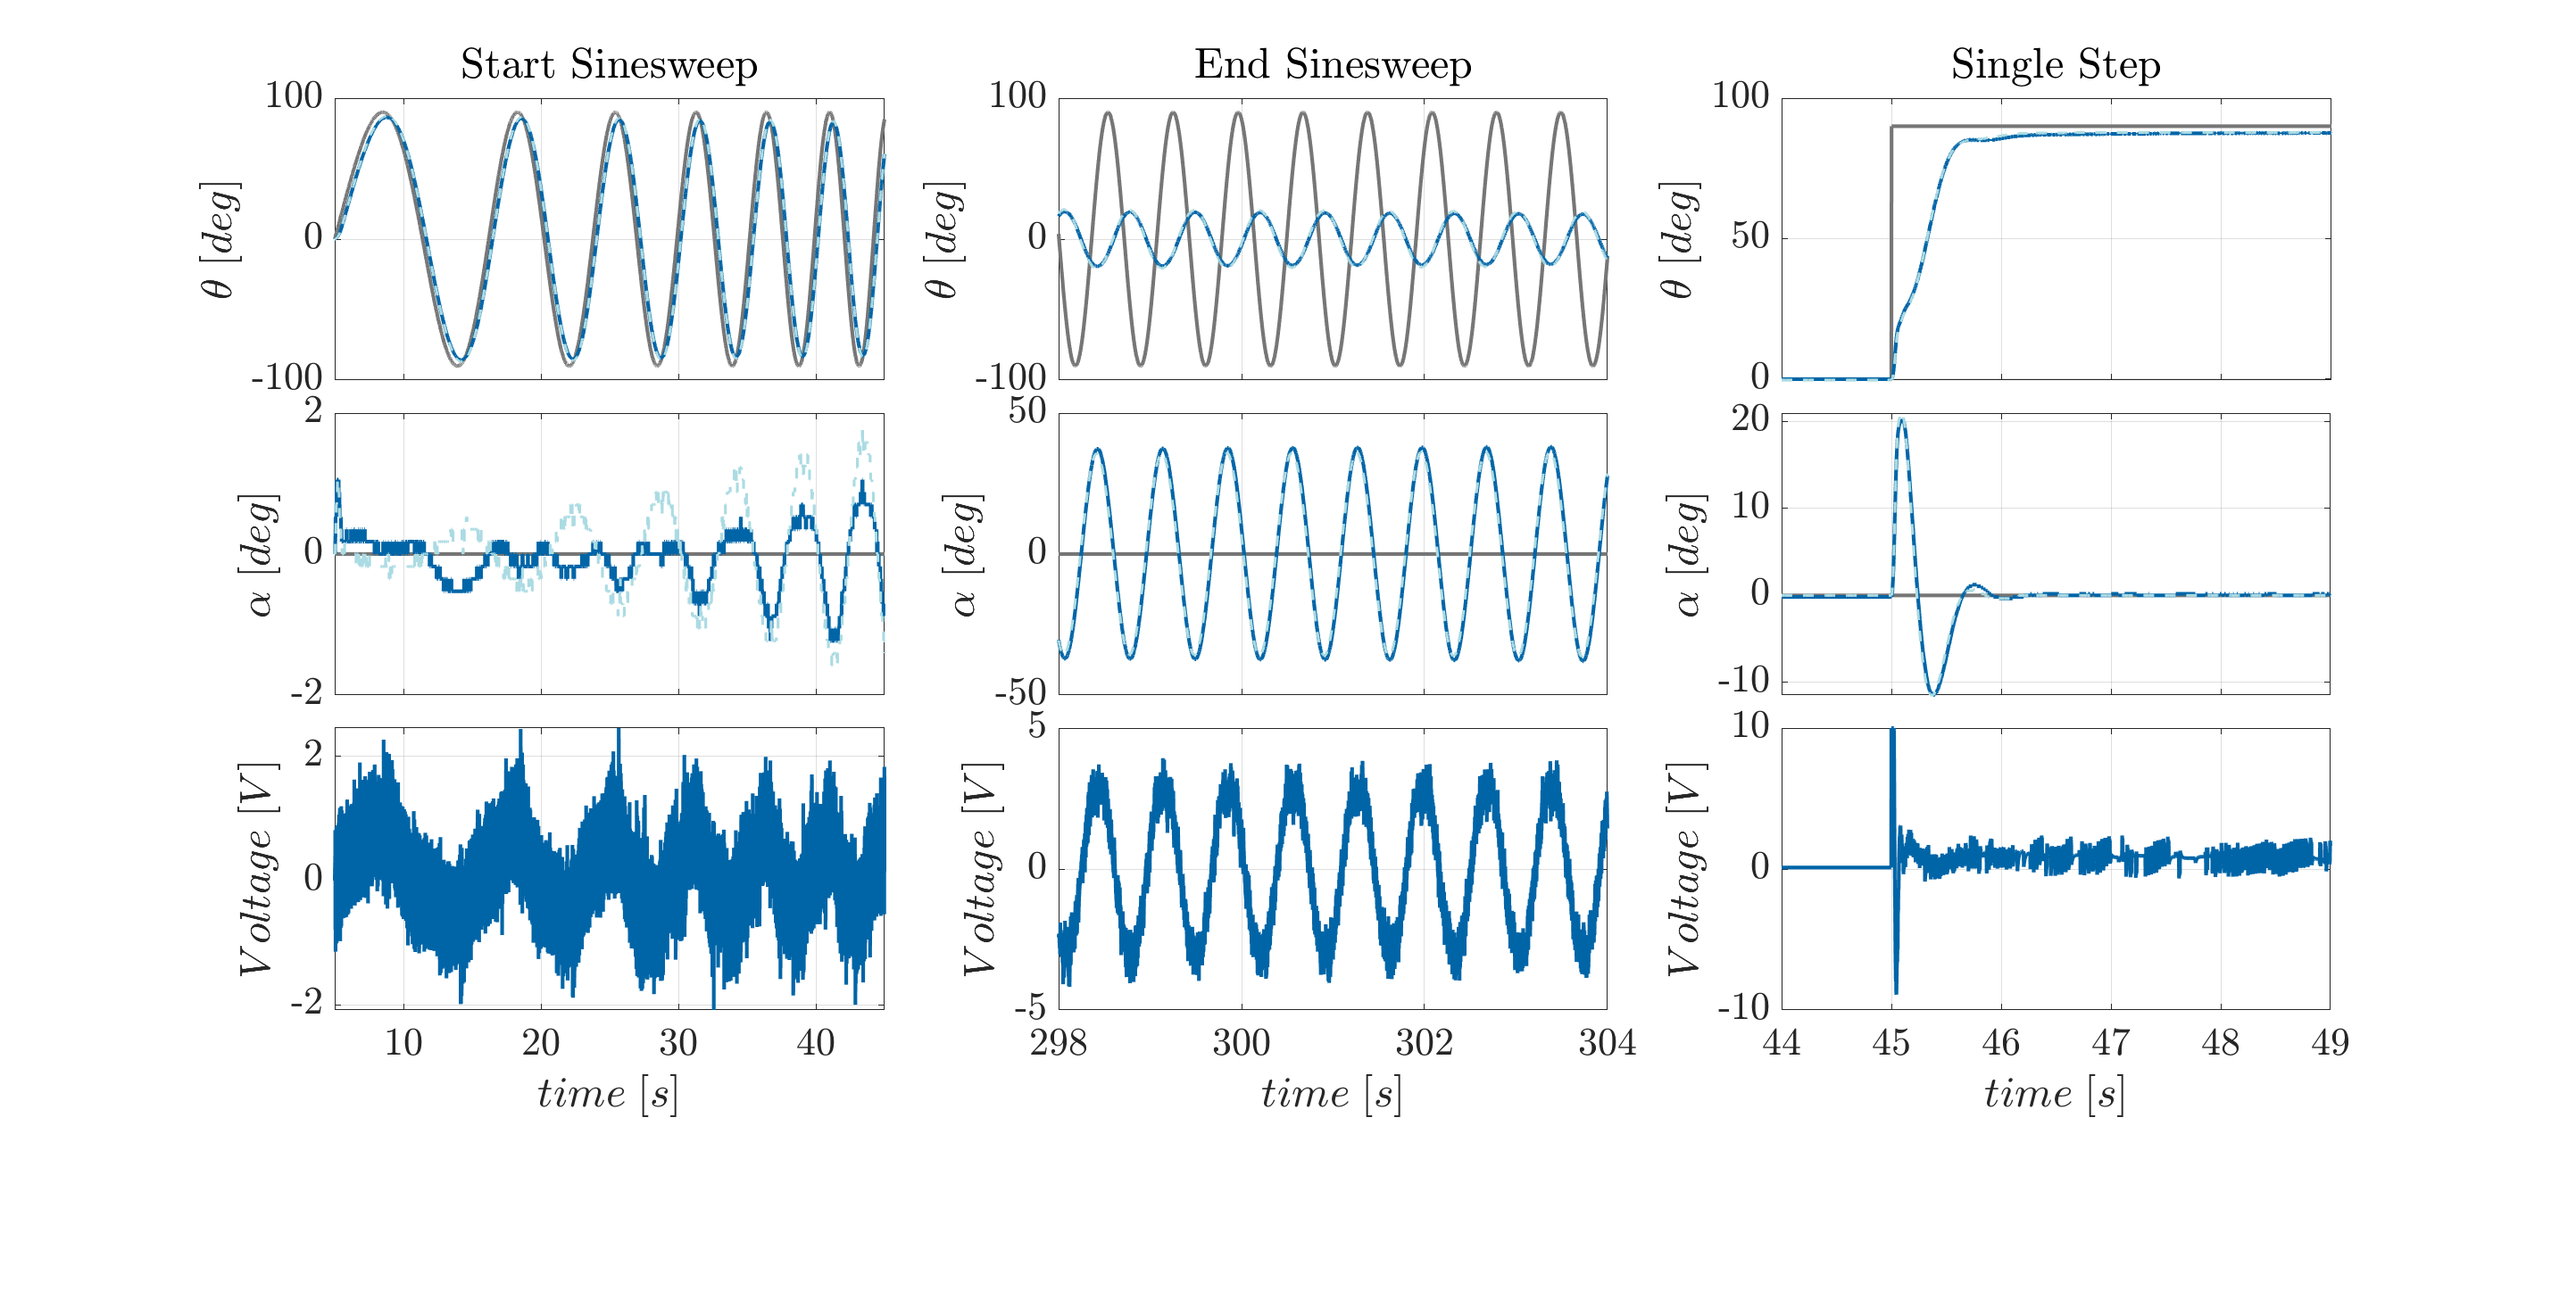
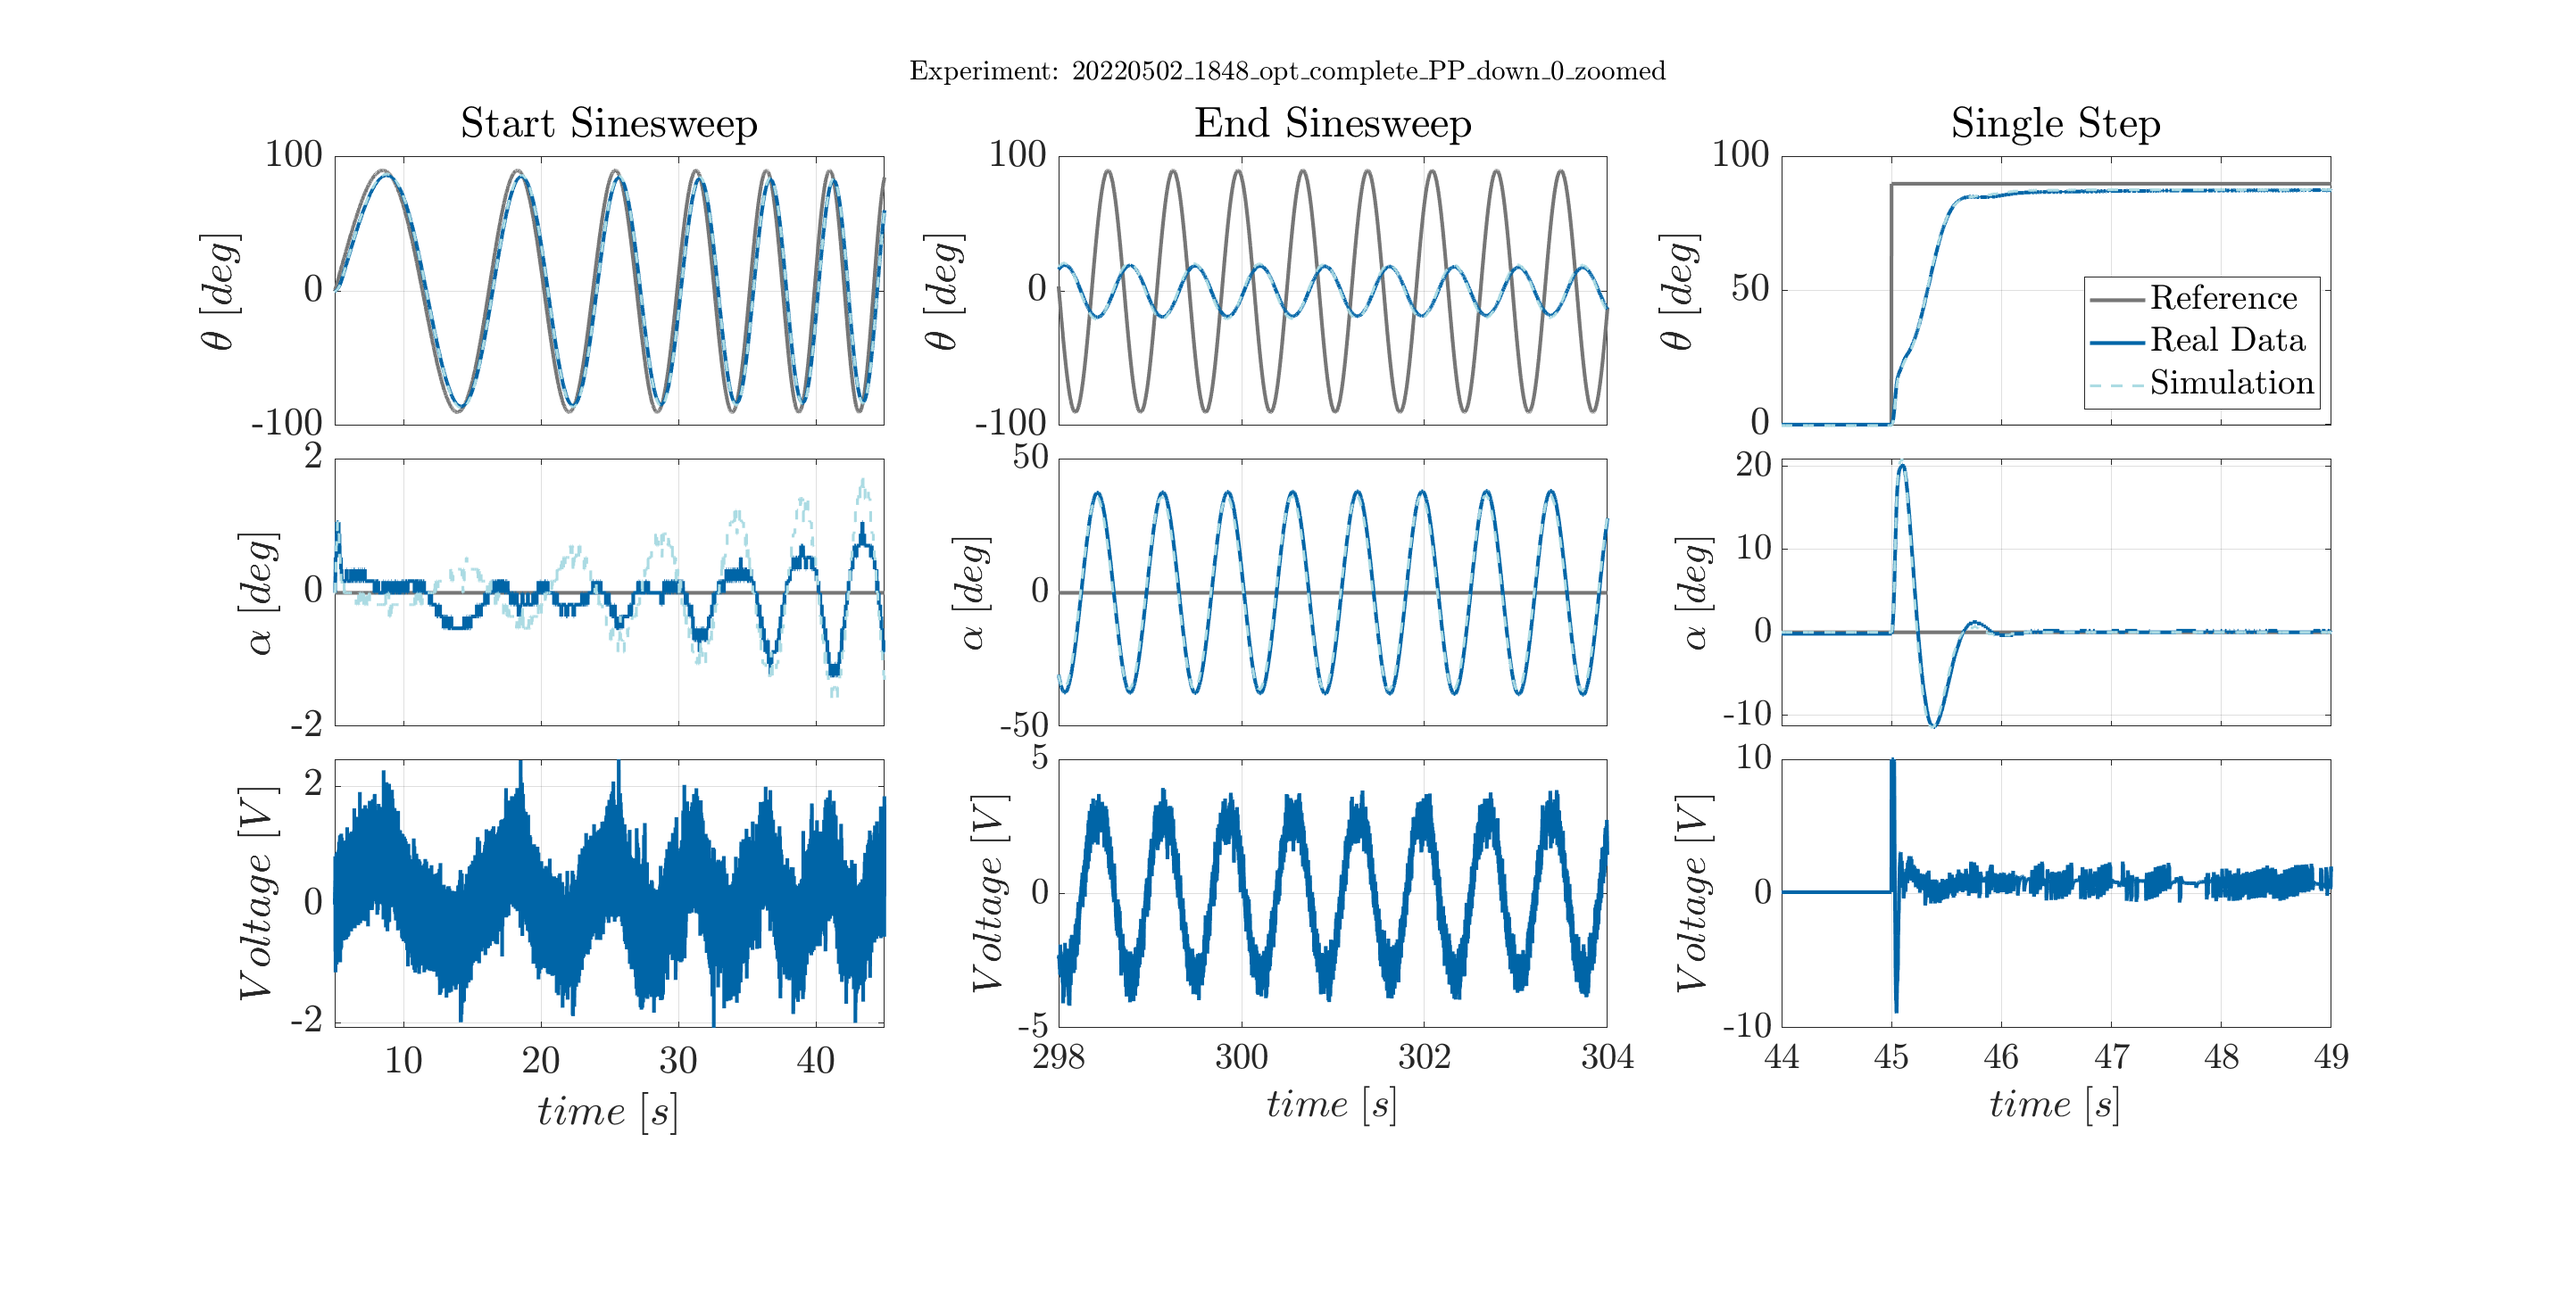
[FIX]: housekeeping on graphics

diff --git a/Scripts/m0602_report_plotter.m b/Scripts/m0602_report_plotter.m
@@ -82,6 +82,7 @@ zoomed_plot_handle = @(subplot_handles, title, dataset, start_time, end_time) zo
 for filename_idx = 1:length(filename)
     fprintf('Filename: %s\n', filename(filename_idx));
     save_figures = input('Would you like to save the figures [Y/N]: ', 's');
+    title_label = string(strrep(strrep(strrep(strrep(filename(filename_idx), ".mat", ""), "static", "complete"), "dynamic", "complete"), "_RESIM", ""));
     
     % FIGURE 1
     f(1) = figure;
@@ -89,21 +90,22 @@ for filename_idx = 1:length(filename)
     
     % FIGURE 2
     f(2) = figure;
+    sgtitle("Experiment: " + strrep(title_label, "_", "\_") + "\_zoomed");
     for i = 1:9
         sub(i) = subplot(3,3,i); %#ok<SAGROW>
     end
     zoomed_plot_handle([sub(1), sub(4), sub(7)], "Start Sinesweep", dynamic_dataset{filename_idx}, 5, 45);
     zoomed_plot_handle([sub(2), sub(5), sub(8)], "End Sinesweep", dynamic_dataset{filename_idx}, 298, 304);
     zoomed_plot_handle([sub(3), sub(6), sub(9)], "Single Step", static_dataset{filename_idx}, 44, 49);
+    subplot(sub(3));
+    legend('Position',[0.80906589365385,0.686662468927643,0.091662336339736,0.10204690470116]);
     
     if any(save_figures == ["Y", "Yes", "y", "YES", "yes"])
-        title_label = string(strrep(strrep(strrep(strrep(filename(filename_idx), ".mat", ""), "static", "complete"), "dynamic", "complete"), "_RESIM", ""));
         saveas(f(1), fullfile(paths.report_images_folder, title_label + ".png"));
         saveas(f(2), fullfile(paths.report_images_folder, title_label + "_zoomed.png"));
     end
     
 end
-
 
 function large_plot(figure_handle, filename_idx, filename, dynamic_dataset, static_dataset, reference_color, data_color, simulation_color)
 
@@ -187,13 +189,7 @@ end
 function zoomed_plot(subplot_handles, title_label, dataset, start_time, end_time, reference_color, data_color, simulation_color)
     
     range = dataset.time >= start_time & dataset.time <= end_time;
-    
-    tmp = get(subplot_handles(1), 'Position');
-    left_pos = tmp(1);
-    top_pos = tmp(2);
-    width = tmp(3);
-    height = tmp(4);
-    spacing = 0.025;
+   
     subplot(subplot_handles(1)); hold on;
     title(title_label);
     
@@ -223,6 +219,12 @@ function zoomed_plot(subplot_handles, title_label, dataset, start_time, end_time
     xlim([start_time, end_time]);
     drawnow;
     
+    tmp = get(subplot_handles(1), 'Position');
+    left_pos = tmp(1);
+    top_pos = tmp(2);
+    width = tmp(3);
+    height = tmp(4);
+    spacing = 0.025;
     set(subplot_handles(2), 'Position', [left_pos, top_pos-height-spacing, width, height]);
     set(subplot_handles(3), 'Position', [left_pos, top_pos-2*height-2*spacing, width, height]);
 end
